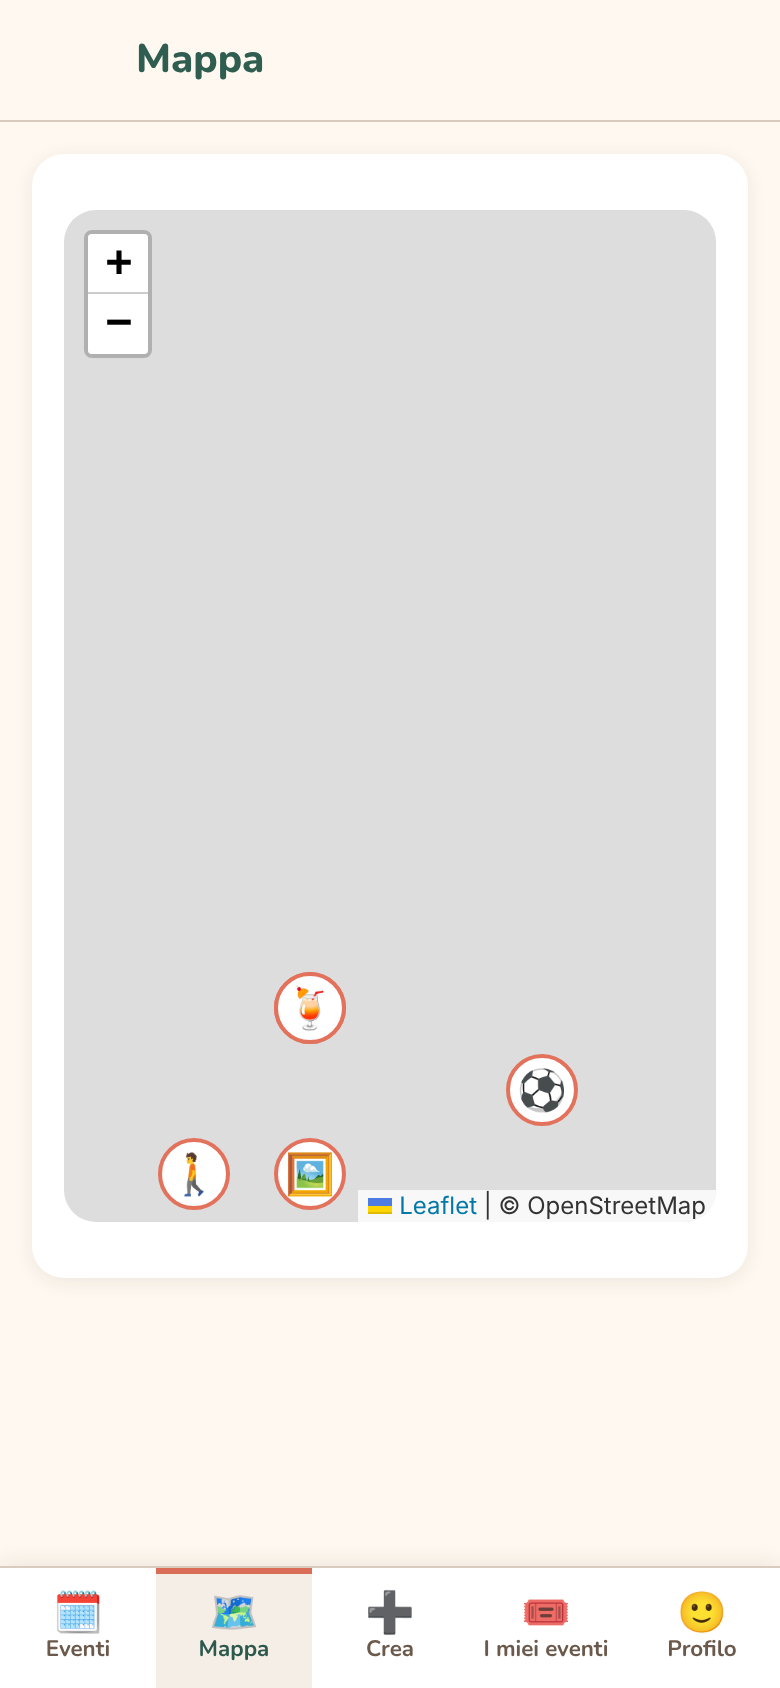
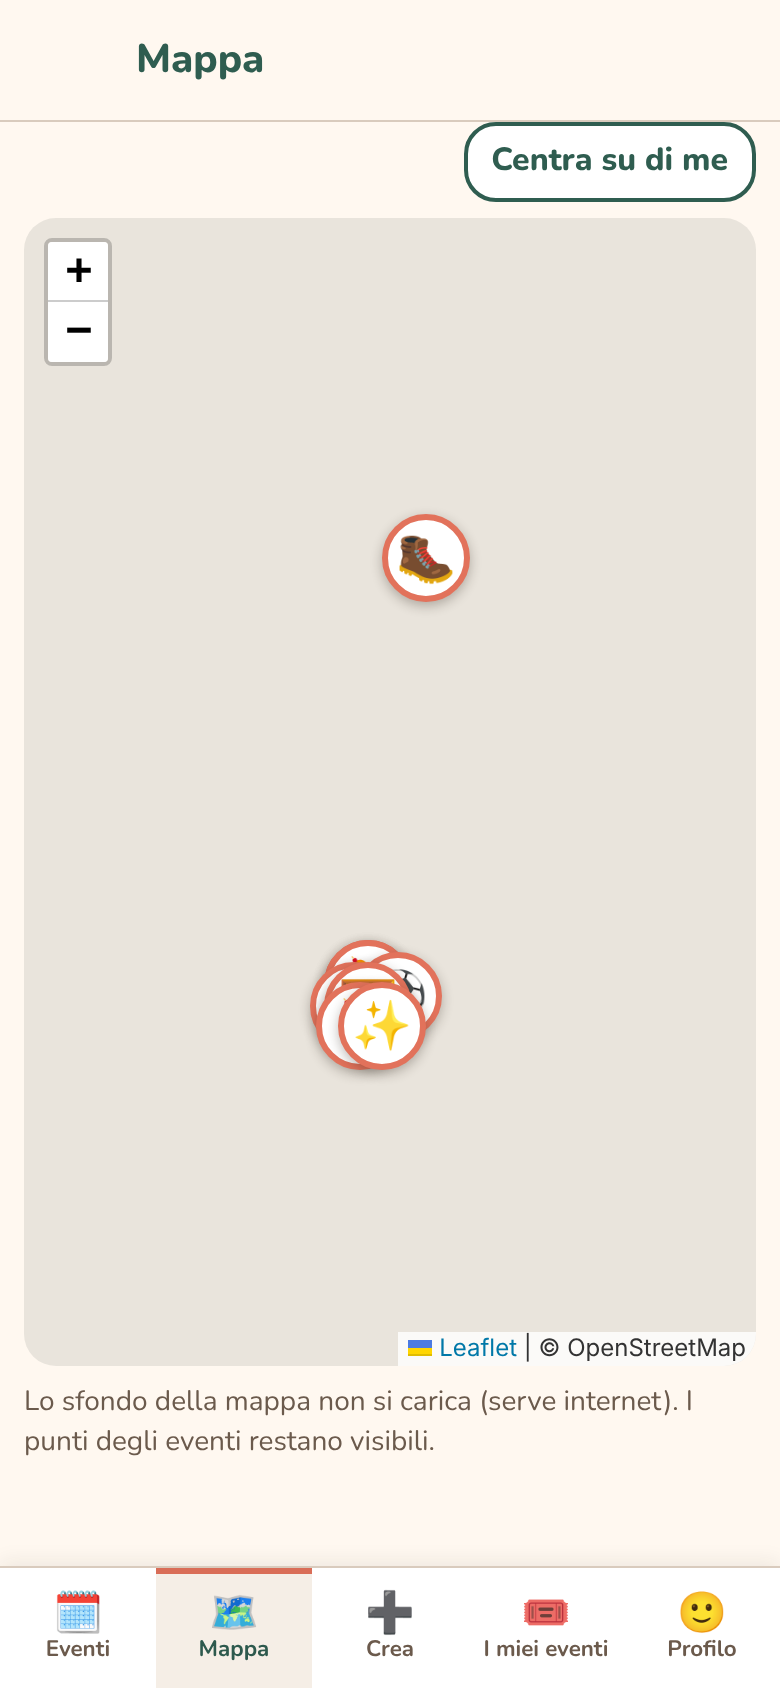
Task 26: mappa con popup, centra su di me, tile assenti gestite
Claude-Session: https://claude.ai/code/session_01MWVcDm4YCdjJwNbgjVAjm9

Changed region(s): [[0.0308, 0.0616, 0.9846, 0.8626], [0.3385, 0.5545, 0.5846, 0.6469], [0.4923, 0.2773, 0.6154, 0.3697]]

diff --git a/src/map/EventMap.tsx b/src/map/EventMap.tsx
@@ -1,39 +1,72 @@
 import L from 'leaflet'
 import 'leaflet/dist/leaflet.css'
 import { useEffect, useRef } from 'react'
+import type { LatLng } from '../events/geohashDecode'
 import type { EventMarker } from './markers'
+import { buildPopup } from './popup'
 import { centerOf, DEFAULT_ZOOM } from './viewport'
 
 interface Props {
   markers: EventMarker[]
+  me: LatLng | null // posizione dell'utente, se l'ha concessa
   onSelect: (eventId: string) => void
+  onTilesFailed: () => void
 }
 
-// Disegna un marker come una pallina con l'emoji dentro.
+// Marker: pallina con l'emoji, grande abbastanza da toccare col dito.
 function emojiIcon(emoji: string): L.DivIcon {
-  return L.divIcon({ className: 'emoji-marker', html: `<span>${emoji}</span>`, iconSize: [36, 36] })
+  return L.divIcon({ className: 'emoji-marker', html: `<span>${emoji}</span>`, iconSize: [44, 44], iconAnchor: [22, 22], popupAnchor: [0, -24] })
 }
 
-// Mappa Leaflet: la creo una volta sola, poi sincronizzo i marker quando cambiano.
-export function EventMap({ markers, onSelect }: Props) {
+// Mappa Leaflet in tre pezzi: la mappa (una volta sola), i marker (quando cambiano) e "tu" (quando arriva la posizione).
+export function EventMap({ markers, me, onSelect, onTilesFailed }: Props) {
   const container = useRef<HTMLDivElement>(null)
+  const mapRef = useRef<L.Map | null>(null)
+  const layerRef = useRef<L.LayerGroup | null>(null)
+  const meRef = useRef<L.CircleMarker | null>(null)
+  const failRef = useRef(onTilesFailed)
+
+  useEffect(() => {
+    failRef.current = onTilesFailed
+  }, [onTilesFailed])
 
   useEffect(() => {
     if (!container.current) return
-    const map = L.map(container.current).setView(centerOf(markers), DEFAULT_ZOOM)
-    L.tileLayer('https://tile.openstreetmap.org/{z}/{x}/{y}.png', {
-      attribution: '© OpenStreetMap',
-      maxZoom: 19,
-    }).addTo(map)
-    for (const marker of markers) {
-      L.marker([marker.lat, marker.lng], { icon: emojiIcon(marker.emoji), title: marker.title })
-        .on('click', () => onSelect(marker.eventId))
-        .addTo(map)
-    }
+    const map = L.map(container.current).setView(centerOf([]), DEFAULT_ZOOM)
+    const tiles = L.tileLayer('https://tile.openstreetmap.org/{z}/{x}/{y}.png', { attribution: '© OpenStreetMap', maxZoom: 19 })
+    tiles.on('tileerror', () => failRef.current()) // niente sfondo: i marker restano usabili
+    tiles.addTo(map)
+    layerRef.current = L.layerGroup().addTo(map)
+    mapRef.current = map
     return () => {
       map.remove()
+      mapRef.current = null
+      layerRef.current = null
+      meRef.current = null
     }
+  }, [])
+
+  useEffect(() => {
+    const map = mapRef.current
+    const layer = layerRef.current
+    if (!map || !layer) return
+    layer.clearLayers()
+    for (const m of markers) {
+      L.marker([m.lat, m.lng], { icon: emojiIcon(m.emoji), title: m.title })
+        .bindPopup(buildPopup(m, onSelect))
+        .addTo(layer)
+    }
+    if (markers.length > 1) map.fitBounds(L.latLngBounds(markers.map((m) => [m.lat, m.lng] as [number, number])), { padding: [64, 64], maxZoom: 15 })
+    else map.setView(centerOf(markers), markers.length === 1 ? 14 : DEFAULT_ZOOM)
   }, [markers, onSelect])
+
+  useEffect(() => {
+    const map = mapRef.current
+    if (!map || !me) return
+    meRef.current?.remove()
+    meRef.current = L.circleMarker([me.lat, me.lng], { radius: 9, color: '#fff', weight: 3, fillColor: '#2F5D50', fillOpacity: 1 }).addTo(map)
+    map.setView([me.lat, me.lng], 14)
+  }, [me])
 
   return <div ref={container} className="event-map" role="application" aria-label="Mappa degli eventi" />
 }

diff --git a/src/screens/MapScreen.tsx b/src/screens/MapScreen.tsx
@@ -1,24 +1,42 @@
-import { useMemo } from 'react'
+import { useCallback, useMemo, useState } from 'react'
 import { useServices } from '../app/ServicesContext'
 import { useUpcomingEvents } from '../events/useUpcomingEvents'
+import { useMyPosition } from '../filters/useMyPosition'
 import { EventMap } from '../map/EventMap'
 import { eventsToMarkers } from '../map/markers'
+import { positionMessage } from '../map/positionMessage'
 
 interface Props {
   onOpen: (eventId: string) => void
 }
 
-// Mappa degli eventi futuri. Toccando un marker si apre il dettaglio.
+// Mappa degli eventi futuri. Toccando un marker si apre un popup con il pulsante verso il dettaglio.
 export function MapScreen({ onOpen }: Props) {
   const { events } = useServices()
   const { loading, list, failed } = useUpcomingEvents(events)
+  const { state, ask } = useMyPosition()
+  const [tilesFailed, setTilesFailed] = useState(false)
   const markers = useMemo(() => eventsToMarkers(list), [list])
+  const onTilesFailed = useCallback(() => setTilesFailed(true), [])
+  const note = positionMessage(state)
 
   return (
-    <section className="card">
+    <section className="map-screen">
       {loading && <p className="loading">Caricamento…</p>}
       {failed && <p role="alert" className="error">Non riesco a caricare gli eventi.</p>}
-      {!loading && !failed && <EventMap markers={markers} onSelect={onOpen} />}
+      {!loading && !failed && (
+        <>
+          <div className="locate-bar">
+            <button type="button" className="locate-button" onClick={ask}>Centra su di me</button>
+          </div>
+          <div className="map-wrap">
+            <EventMap markers={markers} me={state.status === 'ok' ? state.point : null} onSelect={onOpen} onTilesFailed={onTilesFailed} />
+            {markers.length === 0 && <p className="map-empty">Nessun evento in programma per ora.</p>}
+          </div>
+          {note && <p className="hint" role="status">{note}</p>}
+          {tilesFailed && <p className="hint" role="status">Lo sfondo della mappa non si carica (serve internet). I punti degli eventi restano visibili.</p>}
+        </>
+      )}
     </section>
   )
 }

diff --git a/src/styles/map.css b/src/styles/map.css
@@ -1,5 +1,19 @@
-.event-map { height: 60vh; min-height: 280px; border-radius: var(--radius); margin: var(--space-3) 0; }
+/* Mappa degli eventi: marker, popup, pulsante "centra su di me". */
+.map-wrap { position: relative; }
+.event-map { position: relative; z-index: 2; height: calc(100vh - 270px); min-height: 320px; border-radius: var(--radius); background: #e9e4dc; }
 .emoji-marker span {
-  display: flex; align-items: center; justify-content: center; width: 36px; height: 36px;
-  font-size: 20px; background: #fff; border: 2px solid var(--color-primary); border-radius: 50%;
+  display: flex; align-items: center; justify-content: center; width: 44px; height: 44px;
+  font-size: 24px; background: #fff; border: 3px solid var(--color-primary); border-radius: 50%;
+  box-shadow: 0 2px 6px rgba(43, 33, 24, 0.3);
 }
+.map-popup { display: flex; flex-direction: column; gap: var(--space-1); font-family: inherit; color: var(--color-text); }
+.map-popup span { color: var(--color-muted); font-size: 0.875rem; }
+.map-popup button { min-height: 40px; margin-top: var(--space-1); }
+.locate-bar { display: flex; justify-content: flex-end; margin-bottom: var(--space-2); }
+.locate-button { min-height: 40px; padding: 0 var(--space-3); background: var(--color-surface); color: var(--color-secondary); border: 2px solid var(--color-secondary); }
+.map-empty {
+  position: absolute; left: 50%; bottom: var(--space-4); transform: translateX(-50%); z-index: 1; margin: 0;
+  padding: var(--space-2) var(--space-3); background: var(--color-surface); border-radius: 999px; font-weight: 700;
+}
+.map-screen { padding: 0 var(--space-3); }
+.map-screen .hint { margin-top: var(--space-2); }

diff --git a/src/map/popup.test.ts b/src/map/popup.test.ts
@@ -1,0 +1,33 @@
+import { describe, expect, it, vi } from 'vitest'
+import { buildPopup } from './popup'
+import { positionMessage } from './positionMessage'
+
+const marker = { eventId: 'e1', lat: 1, lng: 2, emoji: '🍹', title: '<img src=x onerror=alert(1)>', when: 'sab 31 ott · 19:30', zone: 'Navigli' }
+
+describe('buildPopup', () => {
+  it('mostra titolo, data e zona come testo e non come HTML', () => {
+    const box = buildPopup(marker, () => {})
+    expect(box.querySelector('img')).toBeNull()
+    expect(box.textContent).toContain('<img src=x onerror=alert(1)>')
+    expect(box.textContent).toContain('sab 31 ott · 19:30 · Navigli')
+  })
+
+  it('il pulsante apre l\'evento giusto', () => {
+    const open = vi.fn()
+    buildPopup(marker, open).querySelector('button')!.click()
+    expect(open).toHaveBeenCalledWith('e1')
+  })
+})
+
+describe('positionMessage', () => {
+  it('spiega i casi in cui la posizione non c\'è', () => {
+    expect(positionMessage({ status: 'denied' })).toContain('permessi')
+    expect(positionMessage({ status: 'unsupported' })).toContain('dispositivo')
+    expect(positionMessage({ status: 'asking' })).toContain('Cerco')
+  })
+
+  it('non dice nulla se va tutto bene o non è stata chiesta', () => {
+    expect(positionMessage({ status: 'idle' })).toBeNull()
+    expect(positionMessage({ status: 'ok', point: { lat: 1, lng: 2 } })).toBeNull()
+  })
+})

diff --git a/src/map/markers.test.ts b/src/map/markers.test.ts
@@ -20,7 +20,8 @@ describe('eventsToMarkers', () => {
 
   it('copia id, titolo e posizione approssimata', () => {
     const [marker] = eventsToMarkers([makeEvent('a', 'cena')])
-    expect(marker).toEqual({ eventId: 'a', lat: 45.45, lng: 9.17, emoji: '🍽', title: 'Evento a' })
+    expect(marker).toMatchObject({ eventId: 'a', lat: 45.45, lng: 9.17, emoji: '🍽', title: 'Evento a', zone: 'Navigli' })
+    expect(marker.when).toContain('·')
   })
 
   it('senza eventi restituisce un elenco vuoto', () => {
@@ -34,8 +35,8 @@ describe('centerOf', () => {
   })
 
   it('con più marker fa la media', () => {
-    const a = { eventId: 'a', lat: 10, lng: 20, emoji: '✨', title: 'a' }
-    const b = { eventId: 'b', lat: 20, lng: 40, emoji: '✨', title: 'b' }
+    const a = { eventId: 'a', lat: 10, lng: 20, emoji: '✨', title: 'a', when: '', zone: '' }
+    const b = { eventId: 'b', lat: 20, lng: 40, emoji: '✨', title: 'b', when: '', zone: '' }
     expect(centerOf([a, b])).toEqual([15, 30])
   })
 })

diff --git a/src/map/popup.ts b/src/map/popup.ts
@@ -1,0 +1,20 @@
+import type { EventMarker } from './markers'
+
+/**
+ * Costruisce il contenuto del popup di un marker con elementi DOM e textContent
+ * (mai innerHTML): il titolo lo scrive l'organizzatore e non deve poter inserire HTML.
+ */
+export function buildPopup(marker: EventMarker, onOpen: (eventId: string) => void): HTMLElement {
+  const box = document.createElement('div')
+  box.className = 'map-popup'
+  const title = document.createElement('strong')
+  title.textContent = `${marker.emoji} ${marker.title}`
+  const info = document.createElement('span')
+  info.textContent = `${marker.when} · ${marker.zone}`
+  const button = document.createElement('button')
+  button.type = 'button'
+  button.textContent = 'Apri evento'
+  button.addEventListener('click', () => onOpen(marker.eventId))
+  box.append(title, info, button)
+  return box
+}

diff --git a/src/map/markers.ts b/src/map/markers.ts
@@ -1,5 +1,6 @@
 import type { FrienzyEvent } from '../domain/event'
 import { EVENT_TYPE_EMOJI } from '../domain/eventTypes'
+import { formatShortDate } from '../events/format'
 
 /** Un segnaposto pronto da disegnare sulla mappa. Usa solo la posizione APPROSSIMATA. */
 export interface EventMarker {
@@ -8,6 +9,8 @@ export interface EventMarker {
   lng: number
   emoji: string
   title: string
+  when: string // data breve, per il popup
+  zone: string // zona approssimata, per il popup
 }
 
 /** Trasforma gli eventi in marker con l'emoji del loro tipo. Funzione pura. */
@@ -18,5 +21,7 @@ export function eventsToMarkers(events: FrienzyEvent[]): EventMarker[] {
     lng: event.lngApprossimata,
     emoji: EVENT_TYPE_EMOJI[event.tipo],
     title: event.titolo,
+    when: formatShortDate(event.dataOra),
+    zone: event.zonaNome,
   }))
 }

diff --git a/scripts/shots/steps.ts b/scripts/shots/steps.ts
@@ -27,6 +27,15 @@ export const STEPS: Step[] = [
   { name: '17-organizzatore-richieste', go: (p) => fromHome(p, 'I miei eventi', /Brunch/) },
   { name: '08-miei-eventi', go: (p) => fromHome(p, 'I miei eventi') },
   { name: '09-mappa', go: (p) => fromHome(p, 'Mappa') },
+  {
+    name: '21-mappa-popup',
+    go: async (p) => {
+      await fromHome(p, 'Mappa')
+      await p.locator('.emoji-marker').first().waitFor()
+      await p.locator('.emoji-marker', { hasText: '🥾' }).click()
+      await p.getByRole('button', { name: 'Apri evento' }).waitFor()
+    },
+  },
   { name: '10-crea-evento', go: (p) => fromHome(p, 'Crea') },
   { name: '19-crea-errori', go: async (p) => { await fromHome(p, 'Crea', 'Crea evento'); await p.getByText(/almeno 3 caratteri/).waitFor() } },
   {

diff --git a/src/map/positionMessage.ts b/src/map/positionMessage.ts
@@ -1,0 +1,11 @@
+import type { PositionState } from '../filters/useMyPosition'
+
+/** Messaggio da mostrare sotto la mappa in base allo stato della posizione, oppure null. */
+export function positionMessage(state: PositionState): string | null {
+  switch (state.status) {
+    case 'asking': return 'Cerco la tua posizione…'
+    case 'denied': return 'Non riesco a leggere la tua posizione: controlla i permessi del telefono.'
+    case 'unsupported': return 'Questo dispositivo non permette di leggere la posizione.'
+    default: return null
+  }
+}

diff --git a/docs/giorno-26-mappa.md b/docs/giorno-26-mappa.md
@@ -1,0 +1,31 @@
+# Giorno 26 – Mappa rifinita
+
+**Lettura scelta:** "popup verso il dettaglio" = toccando un marker si apre un piccolo popup (titolo, data, zona) con il pulsante "Apri evento". "Centra su di me" chiede la posizione solo quando si preme il pulsante. "Tile assenti gestite" = se lo sfondo non si carica la mappa resta usabile e un avviso lo spiega.
+
+## Perché queste scelte
+- **Tre effetti separati in `EventMap`**: (1) crea la mappa una volta; (2) ridisegna i marker quando cambiano; (3) disegna "tu" quando arriva la posizione. Prima tutto era in un solo effetto: ogni cambio di dati rifaceva la mappa da capo, e col pulsante "centra" avrebbe perso zoom e posizione.
+- **Popup con DOM, non con stringhe HTML** (`src/map/popup.ts`): il titolo lo scrive l'organizzatore. Con `innerHTML` un titolo come `<img onerror=…>` sarebbe codice eseguito (XSS). Con `createElement` + `textContent` resta solo testo. C'è un test che lo prova.
+- **Permesso posizione solo su richiesta**: riuso `useMyPosition` (già usato dai filtri). Messaggi di errore in una funzione pura, `positionMessage`, testata.
+- **Tile assenti**: `tiles.on('tileerror', …)` avvisa `MapScreen`, che mostra "Lo sfondo della mappa non si carica". Il fondo grigio della mappa e i marker restano.
+
+## Codice, pezzo per pezzo
+- `markers.ts`: `EventMarker` ha ora `when` (data breve) e `zone`, solo dati già pubblici (posizione approssimata, mai l'indirizzo esatto).
+- `EventMap`: `layerRef` è un `LayerGroup`; `clearLayers()` svuota i vecchi marker senza toccare la mappa. Con più marker `fitBounds` con margine 64 li mostra tutti; con uno solo `setView` a zoom 14.
+- `meRef`: un `circleMarker` verde bosco con bordo bianco; quando arriva `me` si sposta e la mappa si centra a zoom 14.
+- `MapScreen`: pulsante "Centra su di me" in una riga sopra la mappa, avvisi sotto, e "Nessun evento in programma" sopra la mappa se la lista è vuota.
+- Marker da 44px con ombra: dimensione minima comoda per il dito.
+
+## Errori incontrati
+1. Il pulsante sopra la mappa copriva il popup (z-index 1000 contro i 700 del popup). Poi, dando alla mappa `z-index: 2`, il pulsante spariva sotto. Soluzione pulita: il pulsante non è più sovrapposto, sta in una riga sopra la mappa.
+2. Lo screenshot cliccava il primo marker, ma i marker demo si sovrappongono e uno copriva l'altro: ora lo script clicca il marker 🥾 (isolato).
+3. Marker tagliati al bordo: margine di `fitBounds` portato da 48 a 64.
+4. Pulsante e avvisi attaccati al bordo dello schermo: padding sul contenitore `.map-screen`.
+
+## Cosa ho visto negli screenshot
+`09-mappa`: marker tondi con emoji ben leggibili, pulsante in alto a destra, avviso sullo sfondo assente. `21-mappa-popup`: popup pulito con titolo, data, zona e pulsante terracotta. Limite visibile: gli eventi demo nello stesso quartiere si sovrappongono (non c'è raggruppamento in cluster); zoomando si separano.
+
+## Verifiche
+build, lint, 192 test (4 nuovi), contrasto OK. Non verificati: sfondo reale della mappa, GPS e permesso posizione sul telefono (non disponibili qui).
+
+## Esercizio
+Aggiungi in `positionMessage` un messaggio per lo stato `ok` ("Ti ho trovato!") e aggiorna il test: poi guarda come `MapScreen` lo mostra sotto la mappa.

diff --git a/PROGRESS.md b/PROGRESS.md
@@ -26,3 +26,4 @@ MVP completato
 - Task 23 fatto: Accesso, registrazione, profilo
 - Task 24 fatto: Schede evento e stati vuoti
 - Task 25 fatto: Creazione evento
+- Task 26 fatto: Mappa rifinita
